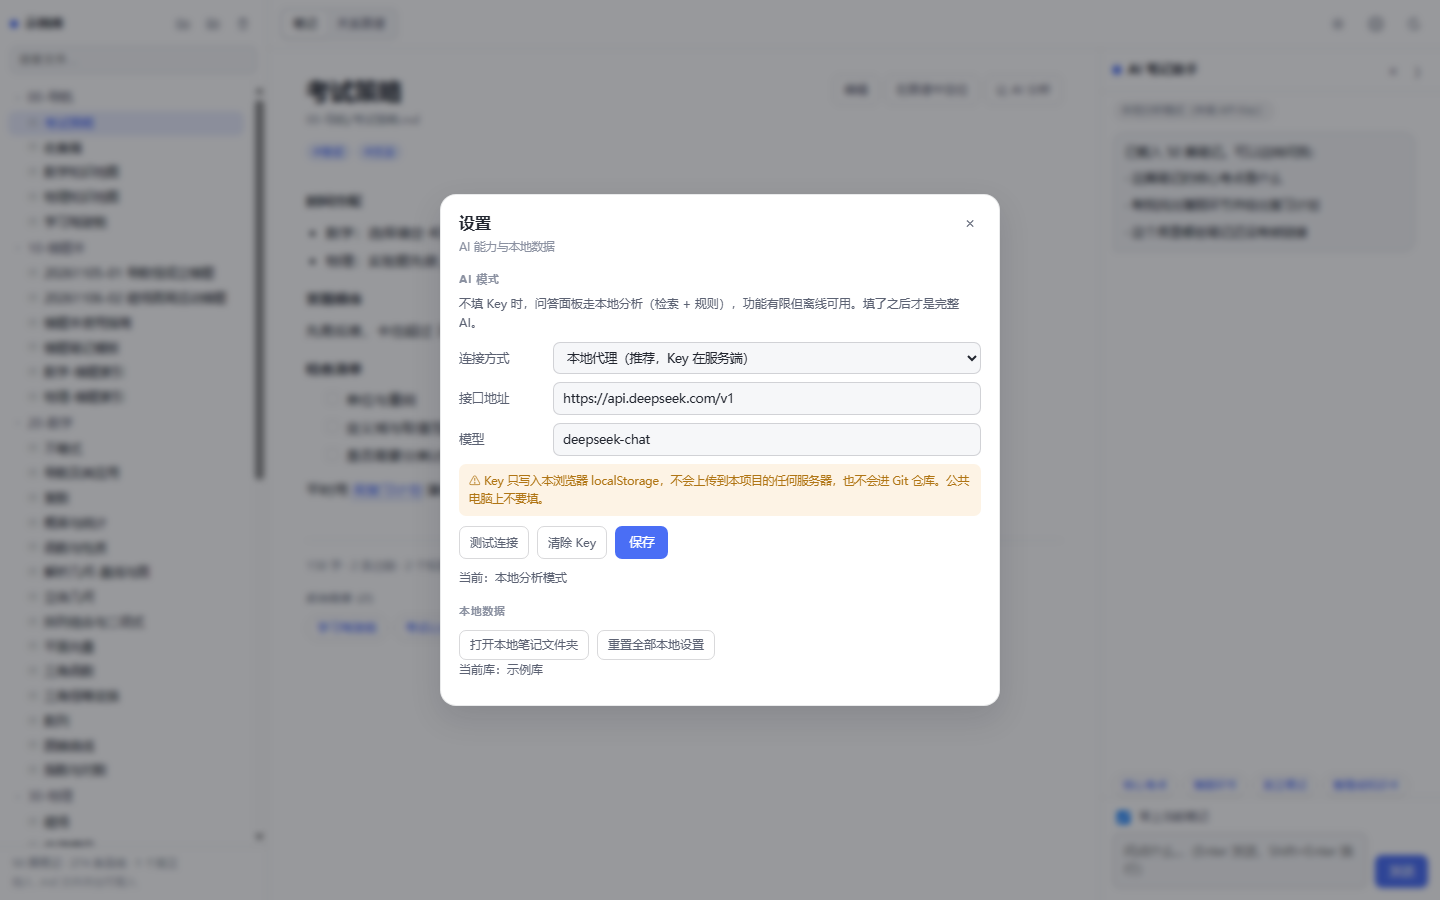
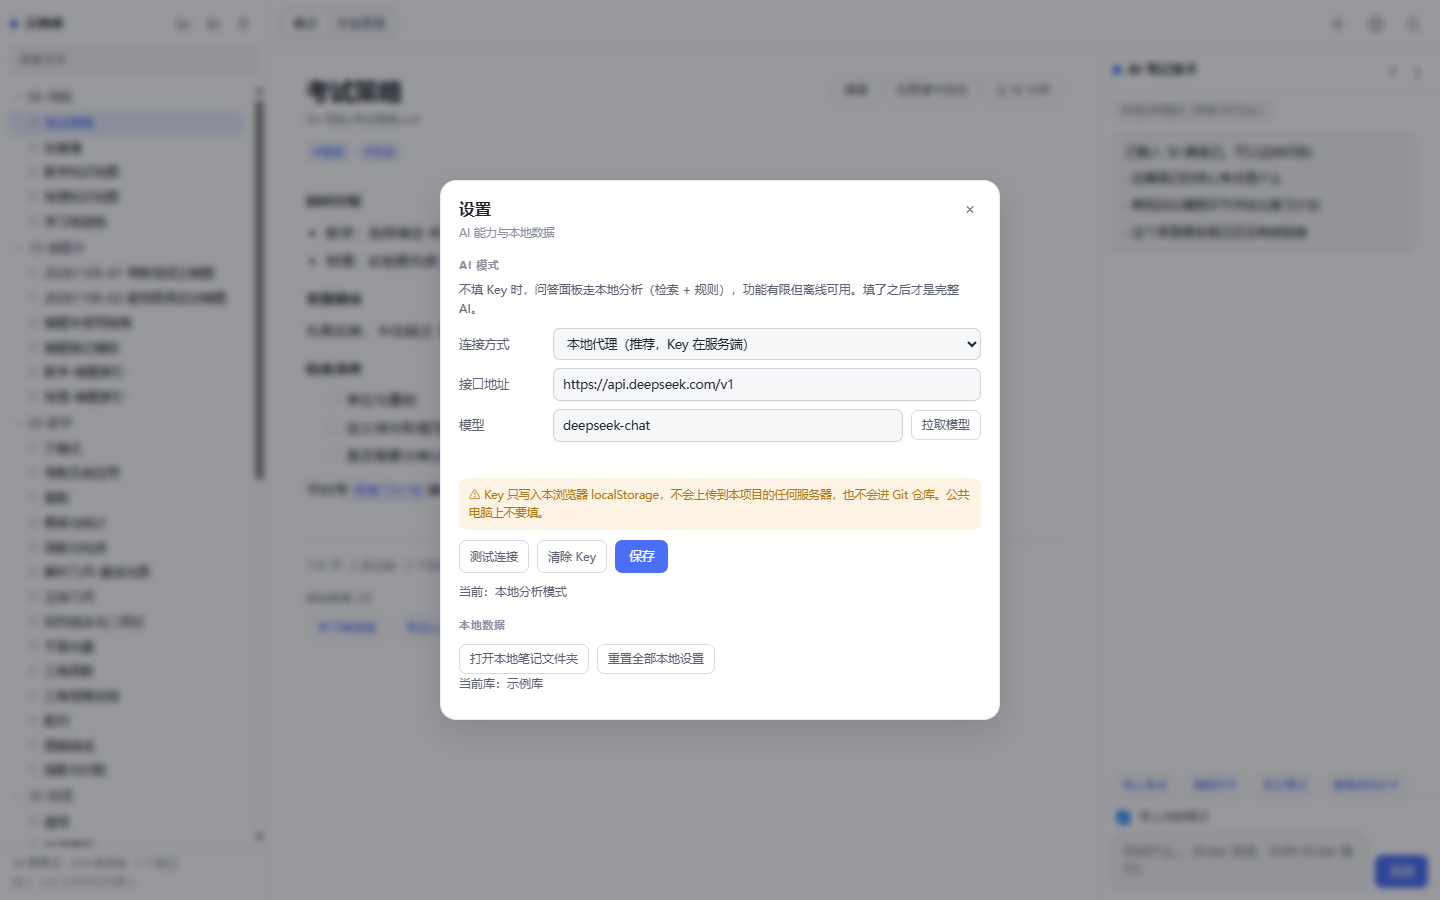
feat(ai): 一键拉取模型列表
- serve.mjs 新增 GET /api/models，代理服务商的 /models（密钥只在服务端）
- ai.js 新增 fetchModels()：直连模式直连服务商，代理模式走本地服务，失败均有可读提示
- 设置窗口：模型输入框改下拉候选（datalist）+「拉取模型」按钮 + 状态提示
- 新增 tests/api.test.js：用 mock 上游验证 health / models / chat 转发与无密钥降级，测试 45 项全绿

Changed region(s): [[0.2812, 0.3733, 0.7188, 0.8089], [0.3125, 0.1867, 0.6875, 0.3422], [0.6562, 0.3733, 0.6875, 0.4044]]

diff --git a/dist/Race-AiNote.html b/dist/Race-AiNote.html
@@ -909,6 +909,10 @@ input[type="range"]::-webkit-slider-thumb {
 .prefs-actions { display: flex; flex-wrap: wrap; gap: 8px; margin-top: 10px; }
 .prefs-status { margin: 10px 0 0; font-size: 12px; color: var(--text-soft); min-height: 18px; }
 
+.prefs-row-inline { display: flex; gap: 8px; align-items: center; min-width: 0; }
+.prefs-row-inline input { flex: 1; min-width: 0; }
+.prefs-row-inline .ghost-btn { flex: none; white-space: nowrap; }
+
 </style>
 </head>
 <body>
@@ -1132,7 +1136,15 @@ input[type="range"]::-webkit-slider-thumb {
         </select>
       </label>
       <label class="prefs-row"><span>接口地址</span><input id="prefs-baseurl" type="text" placeholder="https://api.deepseek.com/v1"></label>
-      <label class="prefs-row"><span>模型</span><input id="prefs-model" type="text" placeholder="deepseek-chat"></label>
+      <div class="prefs-row">
+        <span>模型</span>
+        <div class="prefs-row-inline">
+          <input id="prefs-model" type="text" list="prefs-model-list" placeholder="deepseek-chat">
+          <button id="prefs-models" class="ghost-btn" title="从服务商拉取可用模型列表">拉取模型</button>
+        </div>
+      </div>
+      <datalist id="prefs-model-list"></datalist>
+      <p id="prefs-model-status" class="prefs-status"></p>
       <label class="prefs-row" id="prefs-key-row"><span>API Key</span><input id="prefs-key" type="password" placeholder="sk-…（只保存在本机浏览器）" autocomplete="off"></label>
       <p class="prefs-warn">⚠ Key 只写入本浏览器 localStorage，不会上传到本项目的任何服务器，也不会进 Git 仓库。公共电脑上不要填。</p>
       <div class="prefs-actions">
@@ -2612,6 +2624,36 @@ input[type="range"]::-webkit-slider-thumb {
       });
     }
 
+    /** 拉取可用模型列表：直连模式问服务商，代理模式问本地服务 */
+    async function fetchModels(cfg) {
+      const conf = Object.assign({}, state.config, cfg || {});
+      if (conf.mode === 'direct') {
+        if (!hasKey(conf)) return { ok: false, message: '先填 API Key 再拉取模型列表', models: [] };
+        const url = String(conf.baseUrl || '').replace(RE_TRAILING_SLASH, '') + '/models';
+        try {
+          const res = await fetch(url, { headers: { Authorization: 'Bearer ' + conf.key.trim() } });
+          if (!res.ok) return { ok: false, message: 'HTTP ' + res.status, models: [] };
+          const data = await res.json();
+          const list = Array.isArray(data.data) ? data.data : (Array.isArray(data.models) ? data.models : []);
+          const models = list.map(function (m) { return m.id || m.name || m.model || String(m); }).filter(Boolean);
+          return models.length
+            ? { ok: true, message: '共 ' + models.length + ' 个模型', models: models }
+            : { ok: false, message: '服务商没有返回模型列表', models: [] };
+        } catch (err) {
+          return { ok: false, message: '拉取失败：' + (err && err.message ? err.message : err) + '（可能是跨域限制，建议改用本地代理）', models: [] };
+        }
+      }
+      if (location.protocol === 'file:') return { ok: false, message: '单文件模式下没有代理，请用 http://localhost:4321', models: [] };
+      try {
+        const res = await fetch('/api/models', { cache: 'no-store' });
+        const data = await res.json().catch(function () { return {}; });
+        if (!res.ok) return { ok: false, message: data.error || ('HTTP ' + res.status), models: [] };
+        return { ok: true, message: '共 ' + data.models.length + ' 个模型', models: data.models || [] };
+      } catch (err) {
+        return { ok: false, message: '拉取失败：' + (err && err.message ? err.message : err) + '（先运行 node scripts/serve.mjs）', models: [] };
+      }
+    }
+
     /** 应用新配置（设置窗口保存时调用） */
     async function applyConfig(patch) {
       state.config = Object.assign({}, state.config, patch || {});
@@ -2646,7 +2688,7 @@ input[type="range"]::-webkit-slider-thumb {
       greet();
     }
 
-    return { send, clear, reset, setMode, applyConfig, testConnection, state, render, loadConfig, saveConfig, clearConfig, hasKey };
+    return { send, clear, reset, setMode, applyConfig, testConnection, fetchModels, state, render, loadConfig, saveConfig, clearConfig, hasKey };
   }
 
   root.RG = root.RG || {};
@@ -2658,7 +2700,7 @@ input[type="range"]::-webkit-slider-thumb {
 /* ============================================================
    demo-vault.js — 由 scripts/gen-demo.js 自动生成，请勿手工编辑。
    数据源：vault-example/（真实 Markdown 文件）
-   生成时间：2026-11-08T13:46:00.577Z
+   生成时间：2026-11-08T13:55:52.841Z
    内容：50 篇笔记 + 3 个附件
    ============================================================ */
 (function (root) {
@@ -3892,7 +3934,13 @@ input[type="range"]::-webkit-slider-thumb {
     $('#prefs-baseurl').value = cfg.baseUrl || '';
     $('#prefs-model').value = cfg.model || '';
     $('#prefs-key').value = cfg.key || '';
+    $('#prefs-model-status').textContent = '';
     $('#prefs-vault').textContent = state.vaultLabel || '—';
+    const listEl = $('#prefs-model-list');
+    if (listEl && !listEl.children.length) {
+      const cached = (ai.state.models || []).slice(0, 50);
+      for (const id of cached) { const o = document.createElement('option'); o.value = id; listEl.appendChild(o); }
+    }
     $('#prefs-status').textContent = ai.state.mode === 'local' ? '当前：本地分析模式' : '当前：' + (ai.state.mode === 'direct' ? '直连模式' : '代理模式');
     prefsModal.hidden = false;
     syncKeyRow();
@@ -3921,6 +3969,29 @@ input[type="range"]::-webkit-slider-thumb {
     const mode = await ai.applyConfig(patch);
     $('#prefs-status').textContent = '已保存 · 当前模式：' + (mode === 'local' ? '本地分析' : mode === 'direct' ? '直连' : '代理');
     toast('设置已保存（Key 只存在本机浏览器）');
+  });
+
+  $('#prefs-models').addEventListener('click', async () => {
+    const statusEl = $('#prefs-model-status');
+    statusEl.textContent = '拉取中…';
+    const result = await ai.fetchModels({
+      mode: $('#prefs-mode').value,
+      baseUrl: $('#prefs-baseurl').value.trim(),
+      model: $('#prefs-model').value.trim(),
+      key: $('#prefs-key').value.trim()
+    });
+    if (!result.ok) { statusEl.textContent = '❌ ' + result.message; return; }
+    const list = $('#prefs-model-list');
+    list.innerHTML = '';
+    for (const id of result.models) {
+      const opt = document.createElement('option');
+      opt.value = id;
+      list.appendChild(opt);
+    }
+    statusEl.textContent = '✅ ' + result.message + '（点输入框可选）';
+    if (!$('#prefs-model').value.trim() && result.models.length) {
+      $('#prefs-model').value = result.models[0];
+    }
   });
 
   $('#prefs-test').addEventListener('click', async () => {

diff --git a/tests/api.test.js b/tests/api.test.js
@@ -1,0 +1,82 @@
+const test = require('node:test');
+const assert = require('node:assert');
+const http = require('node:http');
+const { spawn } = require('node:child_process');
+const path = require('node:path');
+
+const ROOT = path.resolve(__dirname, '..');
+const UPSTREAM_PORT = 4471;
+const SERVE_PORT = 4472;
+
+function startMockUpstream() {
+  const server = http.createServer((req, res) => {
+    if (req.url === '/v1/models' && req.method === 'GET') {
+      res.writeHead(200, { 'Content-Type': 'application/json' });
+      res.end(JSON.stringify({ data: [{ id: 'mock-small' }, { id: 'mock-large' }] }));
+      return;
+    }
+    if (req.url === '/v1/chat/completions' && req.method === 'POST') {
+      let body = '';
+      req.on('data', c => { body += c; });
+      req.on('end', () => {
+        const payload = JSON.parse(body || '{}');
+        const hasAuth = Boolean(req.headers.authorization && req.headers.authorization.startsWith('Bearer '));
+        res.writeHead(hasAuth ? 200 : 401, { 'Content-Type': 'application/json' });
+        res.end(JSON.stringify({
+          choices: [{ message: { content: '依据笔记回答：见 [[导数及其应用]]。模型=' + payload.model } }]
+        }));
+      });
+      return;
+    }
+    res.writeHead(404); res.end('{}');
+  });
+  return new Promise(resolve => server.listen(UPSTREAM_PORT, () => resolve(server)));
+}
+
+function startServe() {
+  const child = spawn(process.execPath, [path.join(ROOT, 'scripts', 'serve.mjs'), '--port', String(SERVE_PORT)], {
+    env: Object.assign({}, process.env, {
+      COMMAND_CODE_API_KEY: 'test-key-123',
+      AI_BASE_URL: 'http://127.0.0.1:' + UPSTREAM_PORT + '/v1',
+      AI_MODEL: 'mock-small'
+    }),
+    stdio: 'ignore'
+  });
+  return child;
+}
+
+const sleep = ms => new Promise(r => setTimeout(r, ms));
+
+test('代理服务：健康检查 / 模型列表 / 对话转发', async (t) => {
+  const upstream = await startMockUpstream();
+  const serve = startServe();
+  t.after(() => { serve.kill(); upstream.close(); });
+  await sleep(700);
+
+  const health = await fetch('http://127.0.0.1:' + SERVE_PORT + '/api/health').then(r => r.json());
+  assert.equal(health.ok, true);
+  assert.equal(health.model, 'mock-small');
+
+  const models = await fetch('http://127.0.0.1:' + SERVE_PORT + '/api/models').then(r => r.json());
+  assert.deepEqual(models.models, ['mock-small', 'mock-large']);
+
+  const chat = await fetch('http://127.0.0.1:' + SERVE_PORT + '/api/chat', {
+    method: 'POST',
+    headers: { 'Content-Type': 'application/json' },
+    body: JSON.stringify({ question: '这篇笔记讲什么', context: '【当前笔记】导数及其应用\n内容…' })
+  }).then(r => r.json());
+  assert.match(chat.answer, /导数及其应用/);
+  assert.match(chat.answer, /mock-small/);
+  assert.deepEqual(chat.refs, ['导数及其应用']);
+});
+
+test('代理服务：未配置密钥时健康检查返回 503（前端据此降级）', async (t) => {
+  const child = spawn(process.execPath, [path.join(ROOT, 'scripts', 'serve.mjs'), '--port', String(SERVE_PORT + 10)], {
+    env: Object.assign({}, process.env, { COMMAND_CODE_API_KEY: '', AI_API_KEY: '' }),
+    stdio: 'ignore'
+  });
+  t.after(() => child.kill());
+  await sleep(700);
+  const res = await fetch('http://127.0.0.1:' + (SERVE_PORT + 10) + '/api/health');
+  assert.equal(res.status, 503);
+});

diff --git a/js/ai.js b/js/ai.js
@@ -324,6 +324,36 @@
       });
     }
 
+    /** 拉取可用模型列表：直连模式问服务商，代理模式问本地服务 */
+    async function fetchModels(cfg) {
+      const conf = Object.assign({}, state.config, cfg || {});
+      if (conf.mode === 'direct') {
+        if (!hasKey(conf)) return { ok: false, message: '先填 API Key 再拉取模型列表', models: [] };
+        const url = String(conf.baseUrl || '').replace(RE_TRAILING_SLASH, '') + '/models';
+        try {
+          const res = await fetch(url, { headers: { Authorization: 'Bearer ' + conf.key.trim() } });
+          if (!res.ok) return { ok: false, message: 'HTTP ' + res.status, models: [] };
+          const data = await res.json();
+          const list = Array.isArray(data.data) ? data.data : (Array.isArray(data.models) ? data.models : []);
+          const models = list.map(function (m) { return m.id || m.name || m.model || String(m); }).filter(Boolean);
+          return models.length
+            ? { ok: true, message: '共 ' + models.length + ' 个模型', models: models }
+            : { ok: false, message: '服务商没有返回模型列表', models: [] };
+        } catch (err) {
+          return { ok: false, message: '拉取失败：' + (err && err.message ? err.message : err) + '（可能是跨域限制，建议改用本地代理）', models: [] };
+        }
+      }
+      if (location.protocol === 'file:') return { ok: false, message: '单文件模式下没有代理，请用 http://localhost:4321', models: [] };
+      try {
+        const res = await fetch('/api/models', { cache: 'no-store' });
+        const data = await res.json().catch(function () { return {}; });
+        if (!res.ok) return { ok: false, message: data.error || ('HTTP ' + res.status), models: [] };
+        return { ok: true, message: '共 ' + data.models.length + ' 个模型', models: data.models || [] };
+      } catch (err) {
+        return { ok: false, message: '拉取失败：' + (err && err.message ? err.message : err) + '（先运行 node scripts/serve.mjs）', models: [] };
+      }
+    }
+
     /** 应用新配置（设置窗口保存时调用） */
     async function applyConfig(patch) {
       state.config = Object.assign({}, state.config, patch || {});
@@ -358,7 +388,7 @@
       greet();
     }
 
-    return { send, clear, reset, setMode, applyConfig, testConnection, state, render, loadConfig, saveConfig, clearConfig, hasKey };
+    return { send, clear, reset, setMode, applyConfig, testConnection, fetchModels, state, render, loadConfig, saveConfig, clearConfig, hasKey };
   }
 
   root.RG = root.RG || {};

diff --git a/js/app.js b/js/app.js
@@ -1220,7 +1220,13 @@
     $('#prefs-baseurl').value = cfg.baseUrl || '';
     $('#prefs-model').value = cfg.model || '';
     $('#prefs-key').value = cfg.key || '';
+    $('#prefs-model-status').textContent = '';
     $('#prefs-vault').textContent = state.vaultLabel || '—';
+    const listEl = $('#prefs-model-list');
+    if (listEl && !listEl.children.length) {
+      const cached = (ai.state.models || []).slice(0, 50);
+      for (const id of cached) { const o = document.createElement('option'); o.value = id; listEl.appendChild(o); }
+    }
     $('#prefs-status').textContent = ai.state.mode === 'local' ? '当前：本地分析模式' : '当前：' + (ai.state.mode === 'direct' ? '直连模式' : '代理模式');
     prefsModal.hidden = false;
     syncKeyRow();
@@ -1249,6 +1255,29 @@
     const mode = await ai.applyConfig(patch);
     $('#prefs-status').textContent = '已保存 · 当前模式：' + (mode === 'local' ? '本地分析' : mode === 'direct' ? '直连' : '代理');
     toast('设置已保存（Key 只存在本机浏览器）');
+  });
+
+  $('#prefs-models').addEventListener('click', async () => {
+    const statusEl = $('#prefs-model-status');
+    statusEl.textContent = '拉取中…';
+    const result = await ai.fetchModels({
+      mode: $('#prefs-mode').value,
+      baseUrl: $('#prefs-baseurl').value.trim(),
+      model: $('#prefs-model').value.trim(),
+      key: $('#prefs-key').value.trim()
+    });
+    if (!result.ok) { statusEl.textContent = '❌ ' + result.message; return; }
+    const list = $('#prefs-model-list');
+    list.innerHTML = '';
+    for (const id of result.models) {
+      const opt = document.createElement('option');
+      opt.value = id;
+      list.appendChild(opt);
+    }
+    statusEl.textContent = '✅ ' + result.message + '（点输入框可选）';
+    if (!$('#prefs-model').value.trim() && result.models.length) {
+      $('#prefs-model').value = result.models[0];
+    }
   });
 
   $('#prefs-test').addEventListener('click', async () => {

diff --git a/index.html b/index.html
@@ -228,7 +228,15 @@
         </select>
       </label>
       <label class="prefs-row"><span>接口地址</span><input id="prefs-baseurl" type="text" placeholder="https://api.deepseek.com/v1"></label>
-      <label class="prefs-row"><span>模型</span><input id="prefs-model" type="text" placeholder="deepseek-chat"></label>
+      <div class="prefs-row">
+        <span>模型</span>
+        <div class="prefs-row-inline">
+          <input id="prefs-model" type="text" list="prefs-model-list" placeholder="deepseek-chat">
+          <button id="prefs-models" class="ghost-btn" title="从服务商拉取可用模型列表">拉取模型</button>
+        </div>
+      </div>
+      <datalist id="prefs-model-list"></datalist>
+      <p id="prefs-model-status" class="prefs-status"></p>
       <label class="prefs-row" id="prefs-key-row"><span>API Key</span><input id="prefs-key" type="password" placeholder="sk-…（只保存在本机浏览器）" autocomplete="off"></label>
       <p class="prefs-warn">⚠ Key 只写入本浏览器 localStorage，不会上传到本项目的任何服务器，也不会进 Git 仓库。公共电脑上不要填。</p>
       <div class="prefs-actions">

diff --git a/scripts/smoke.js b/scripts/smoke.js
@@ -95,6 +95,9 @@ const sleep = ms => new Promise(r => setTimeout(r, ms));
   out.savedMode = api.ai.state.config.mode;
   out.savedModel = api.ai.state.config.model;
   out.aiMode = api.ai.state.mode;
+  out.modelsBtn = Boolean(w.document.querySelector('#prefs-models'));
+  const mr = await api.ai.fetchModels({ mode: 'proxy' });
+  out.fetchModelsOk = typeof mr.ok === 'boolean';
   out.keyNotInDom = !w.document.documentElement.innerHTML.includes('sk-test-1234567890');
 
   console.log(JSON.stringify(out, null, 2));

diff --git a/styles.css b/styles.css
@@ -900,3 +900,7 @@ input[type="range"]::-webkit-slider-thumb {
 
 .prefs-actions { display: flex; flex-wrap: wrap; gap: 8px; margin-top: 10px; }
 .prefs-status { margin: 10px 0 0; font-size: 12px; color: var(--text-soft); min-height: 18px; }
+
+.prefs-row-inline { display: flex; gap: 8px; align-items: center; min-width: 0; }
+.prefs-row-inline input { flex: 1; min-width: 0; }
+.prefs-row-inline .ghost-btn { flex: none; white-space: nowrap; }

diff --git a/js/demo-vault.js b/js/demo-vault.js
@@ -1,7 +1,7 @@
 /* ============================================================
    demo-vault.js — 由 scripts/gen-demo.js 自动生成，请勿手工编辑。
    数据源：vault-example/（真实 Markdown 文件）
-   生成时间：2026-11-08T13:46:00.577Z
+   生成时间：2026-11-08T13:55:52.841Z
    内容：50 篇笔记 + 3 个附件
    ============================================================ */
 (function (root) {

diff --git a/README.md b/README.md
@@ -95,7 +95,7 @@ node scripts/serve.mjs --port 4321
 - **连接方式** 选「浏览器直连」→ 直接填 Key，只写进本浏览器 `localStorage`，不经任何服务器；
 - 选「本地代理」→ 前端不碰 Key，用 `scripts/serve.mjs` 服务端的环境变量；
 - 选「只用本地分析」→ 强制离线模式；
-- 点「测试连接」会真实发一次极小请求验证连通性，「清除 Key」一键回到本地分析。
+- 点「测试连接」会真实发一次极小请求验证连通性；点「拉取模型」从服务商拉取可用模型列表，填进下拉候选；「清除 Key」一键回到本地分析。
 
 面板右上角出现「模型模式」即为生效；接口不通时会自动降级回本地分析，不会白屏。
 
